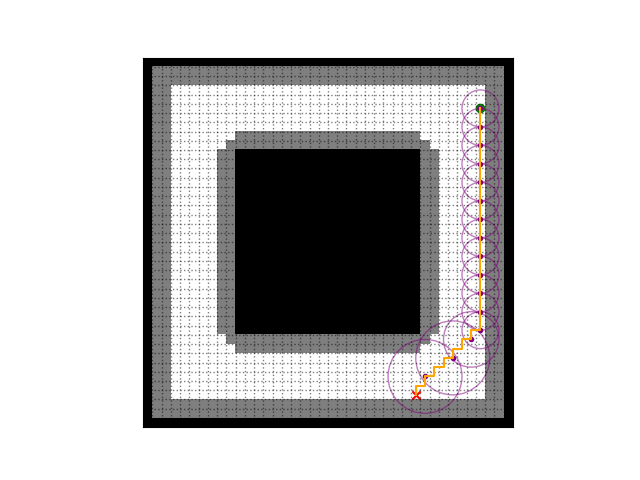
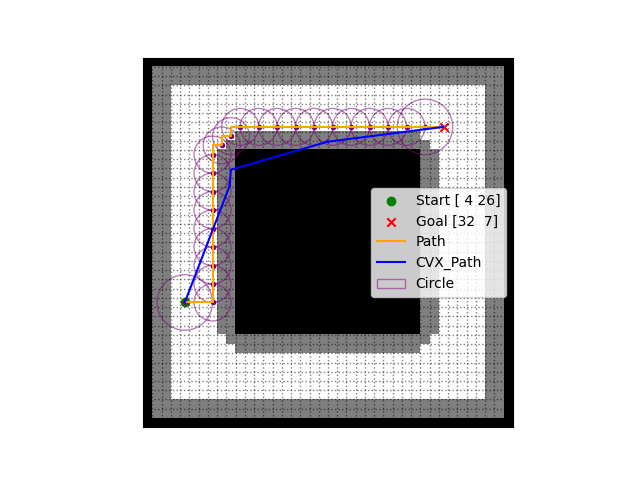
Fixed every problem paper done

diff --git a/src/main_convex_sanity_check.py b/src/main_convex_sanity_check.py
@@ -3,7 +3,8 @@ import matplotlib.pyplot as plt
 import heapq
 from tqdm import tqdm
 from scipy.ndimage import binary_dilation
-import utils.general
+from utils.general import gradient_log_softmax, log_softmax
+import cvxpy as cp
 
 class World:
     def __init__(self, side_length, middle_obstacle_side_length, agent_radius):
@@ -148,12 +149,18 @@ class Circle:
         # 0 is the edge (at the radius)
         return 1 - np.linalg.norm([x - self.x, y - self.y]) / self.radius
 
+    def sdf_value_cp(self, x, y):
+        # Inside is positive, outside negative
+        # 1 is right in the middle,
+        # 0 is the edge (at the radius)
+        return 1 - cp.norm2([x - self.x, y - self.y]) / self.radius
+
     def __str__(self):
         return f"Circle c=({self.x}, {self.y}) r={self.radius}"
 
 class Plotter:
     @staticmethod
-    def plot_world(world, path, circles):
+    def plot_world(world, path, circles, path2=[]):
         # Plot the grid world, zeros are white, ones are black, twos are grey - explicitly
         white = np.array([1, 1, 1])
         black = np.array([0, 0, 0])
@@ -183,6 +190,9 @@ class Plotter:
         # Plot the path an orange line
         path = np.array(path)
         plt.plot(path[:, 0], path[:, 1], color="orange", label="Path")
+        if len(path2) > 0:
+            path2 = np.array(path2)
+            plt.plot(path2[:, 0], path2[:, 1], color="blue", label="CVX_Path")
         # Plot the circles in purple (centers are xs, and otuline)
         for i, circle in enumerate(circles):
             plt.scatter(circle.x, circle.y, color="purple", marker=".")
@@ -191,7 +201,7 @@ class Plotter:
             else:
                 circle_plot = plt.Circle((circle.x, circle.y), circle.radius, color="purple", fill=False, alpha=0.5, linestyle="-")
             plt.gca().add_artist(circle_plot)
-        #plt.legend()
+        plt.legend()
 
         # Title exaplins the 0,0 bottom left
         # plt.title("origin bottom left, x^, y->")
@@ -229,54 +239,92 @@ for circle in circles:
 # ----------------------------------------------------------------
     
 # This is where we get convex with it
+
+def sdf_values(path,circles):
+        
+    if len(path.shape) == 1:
+        path = path[np.newaxis, :]
     
-def smooth_path_with_cvxpy(world, path, circles, lambda_smooth=1.0):
+    d = np.zeros((path.shape[0], len(circles)))
+
+    for i in range(len(circles)):
+        for j in range(len(path)):
+            d[j,i] = circles[i].sdf_value(*path[j])
+    
+    return d
+
+def scp_smooth_path(world, path, circles, sig=50, eps_ss=1e-4, max_iters=10, tol=1e-3):
     """
-    Smooths the A* path while ensuring each point remains inside at least one circle.
-    
+    Smooths a given path using Sequential Convex Programming (SCP) while ensuring each point 
+    remains inside at least one circle.
+
     world: World object
     path: List of (x, y) tuples from A*
     circles: List of Circle objects
     lambda_smooth: Weight for the smoothness penalty
+    lambda_inside: Weight for inside-circle constraint
+    max_iters: Maximum number of SCP iterations
+    tol: Convergence tolerance
     """
     path = np.array(path)
     num_points = len(path)
+    num_circles = len(circles)
 
-    # Define optimization variables (x, y coordinates for each path point)
-    X = cp.Variable((num_points, 2))
+    # Initialize the path
+    X_prev = np.copy(path)  # Initial guess (previous iteration's solution)
 
-    # Objective: Minimize second difference (curvature)
-    smoothness_cost = cp.sum_squares(X[:-2] - 2 * X[1:-1] + X[2:])
+    for iter in range(max_iters):
+        # Define optimization variables (x, y coordinates for each path point)
+        X = cp.Variable((num_points, 2))
+        slack_sdf = cp.Variable((num_points,num_circles))
 
-    # Constraints: 
-    constraints = []
+        # Constraints
+        constraints = []
+        constraints.append(X[0] == path[0])  # Fix start
+        constraints.append(X[-1] == path[-1])  # Fix goal
 
-    # Ensure the start and goal remain fixed
-    constraints.append(X[0] == path[0])
-    constraints.append(X[-1] == path[-1])
+        # slack sdf prev is going to be a matrix (num_timesteps, num_sdfs)
+        slack_sdf_prev = sdf_values(X_prev[:,:2],circles)
 
-    # Ensure each point is inside at least one circle
-    for i in range(num_points):
-        circle_constraints = [
-            cp.norm(X[i] - np.array([c.x, c.y])) <= c.radius for c in circles
-        ]
-        # The OR condition (inside at least one circle) is handled using cp.constraints.OR
-        constraints.append(cp.constraints.NonPos(cp.vstack(circle_constraints) - 0.0))
+        # G's shape is the same
+        G = gradient_log_softmax(sig, slack_sdf_prev)
 
-    # Solve the optimization problem
-    problem = cp.Problem(cp.Minimize(lambda_smooth * smoothness_cost), constraints)
-    problem.solve()
+        # # affine part of the assembled matrix form of the constraints
+        L0 = log_softmax(sig, slack_sdf_prev)
+        
+        constraints += [cp.diag( G @ (slack_sdf - slack_sdf_prev).T) + L0 >= 0]
 
-    # Extract the optimized path
-    optimized_path = X.value
-    return optimized_path
+        for i in range(num_circles):
+            constraints += [slack_sdf[k,i] <= 1 - (1/circles[i].radius)*cp.norm2(X[k] - np.array([circles[i].x,circles[i].y])) for k in range(num_points)]
 
+        # Solve the convex subproblem
+        objective = 0
+        distance_max = (cp.norm2(path[0] - path[-1]))**2 * (num_points - 1)
+        distance_objective = cp.sum([(cp.norm2(X[_k] - path[-1]))**2 for _k in range(num_points - 1)]) / distance_max
+        objective += distance_objective
+        sdf_objective = -eps_ss * cp.sum(slack_sdf)
+        objective += sdf_objective
+        problem = cp.Problem(cp.Minimize(objective), constraints)
+        problem.solve()
+
+        # Check convergence
+        if np.max(np.linalg.norm(X.value - X_prev, axis=0)) < tol:
+            break
+
+        # Update previous solution
+        X_prev = X.value
+
+    return X.value
+
+
+# Try to get convex path
+path2 = scp_smooth_path(world,path,circles).tolist()
 
 # ----------------------------------------------------------------
 
 
 
 # Plot everything
-Plotter.plot_world(world, path, circles)
+Plotter.plot_world(world, path, circles, path2)
 
 
